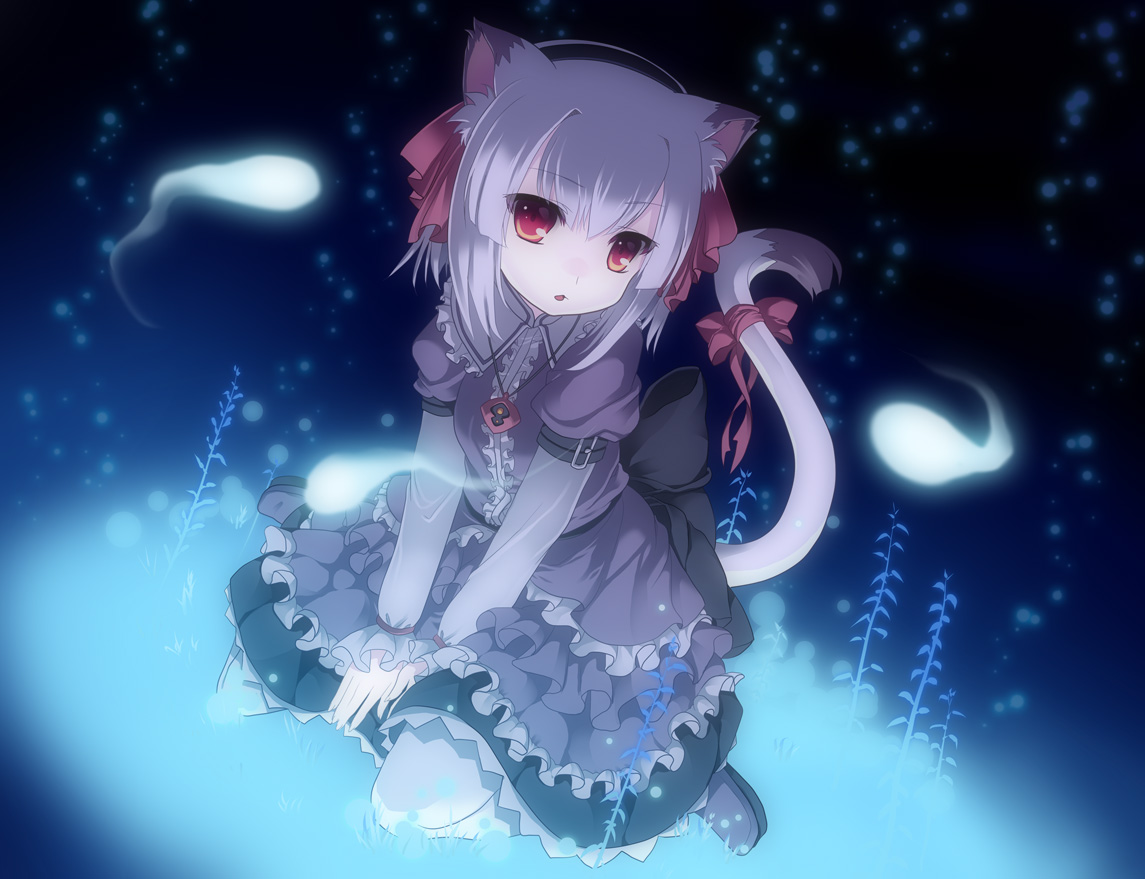
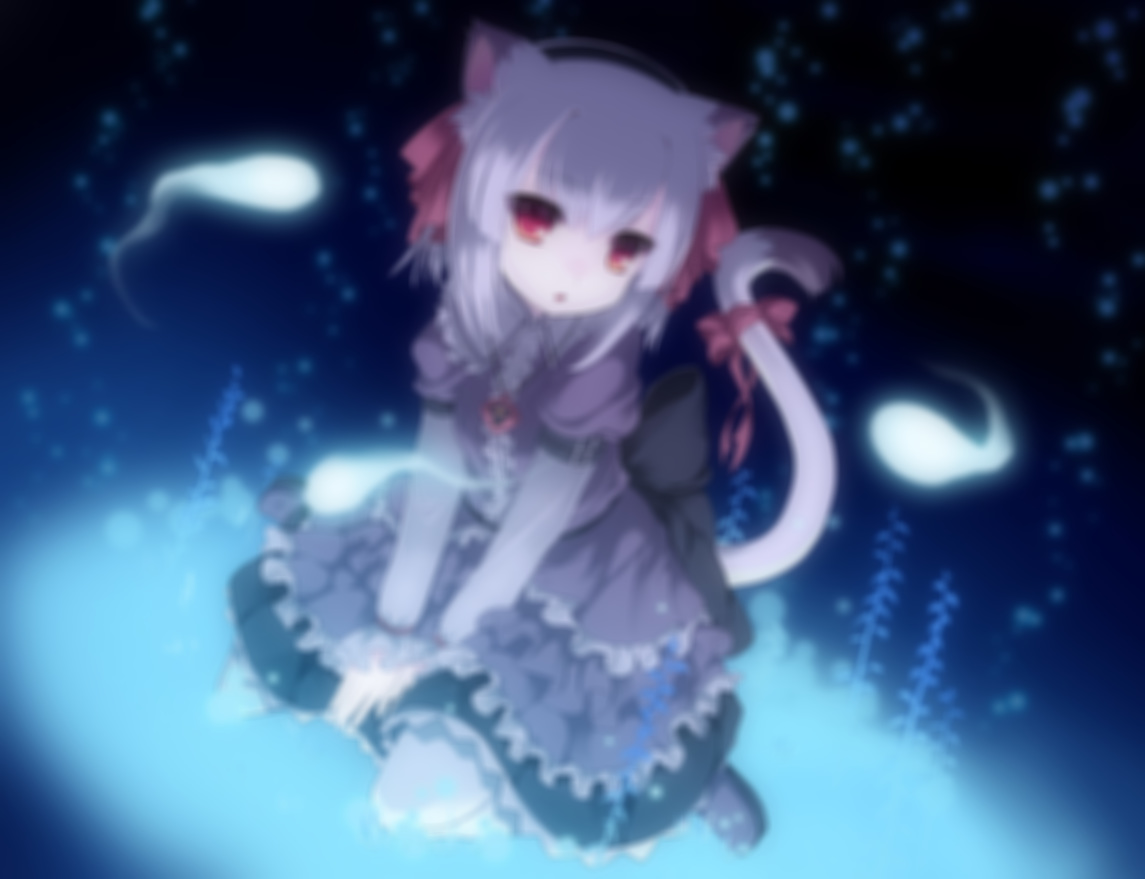
use a blurred background image

diff --git a/public/danmaku.html b/public/danmaku.html
@@ -5,10 +5,7 @@
         <style>
          html, body {
              margin: 0px;
-         }
-
-         body {
-             background: url('background.jpg') no-repeat;
+             background: url('background.jpg.jpg') no-repeat;
              background-size: cover;
          }
 
@@ -20,7 +17,7 @@
              color: white;
          }
 
-         .board {
+         #board {
              position: relative;
          }
 
